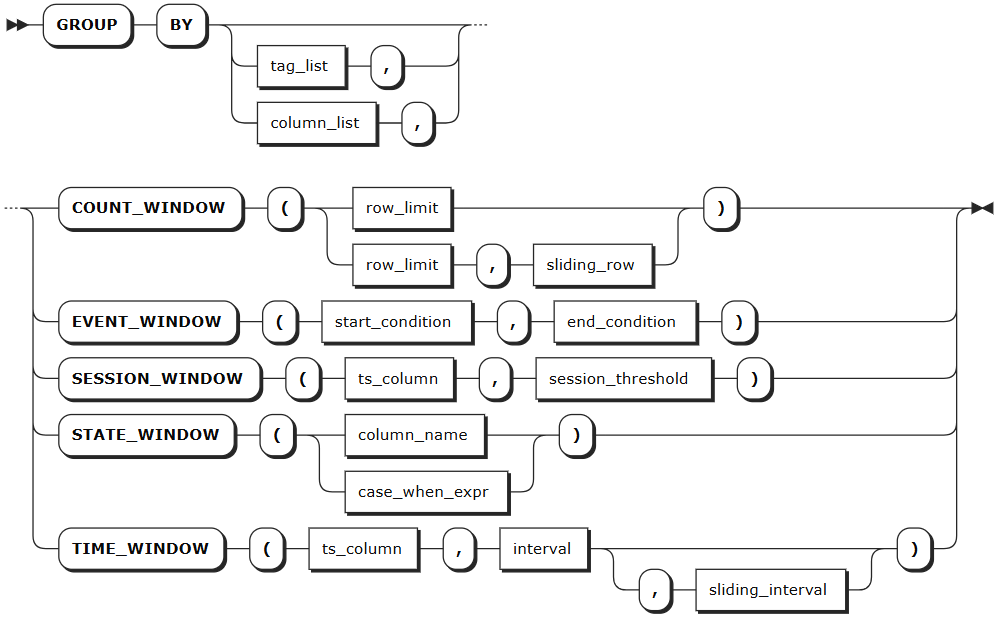
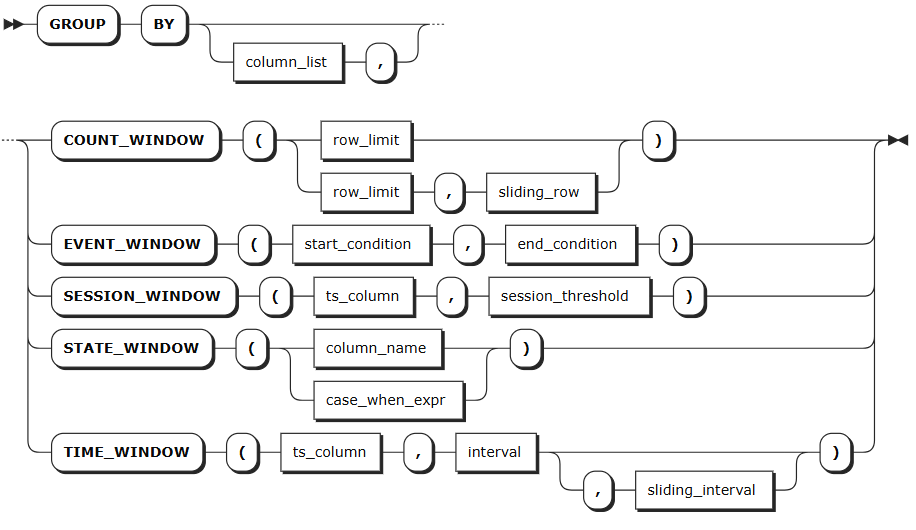
commit-message: add update

Changed region(s): [[0.0, 0.0, 1.0, 0.9962], [0.7031, 0.2113, 0.7336, 0.2415]]

diff --git a/sql-reference/other-sql-statements/stream-sql.md b/sql-reference/other-sql-statements/stream-sql.md
@@ -39,7 +39,7 @@ id: stream-sql
 | `table_name` | 目标表名称。<br> **说明** <br> 目标表的模式必须与 `stream_query` 参数的 `select_list` 参数兼容。 |
 | `stream_option` | 流计算参数。用户可以使用 `ALTER STREAM <stream_name> SET OPTIONS` 语句修改流计算的参数。支持以下参数：<br >- `ENABLE`: 是否启用流计算。支持 `on` 和 `off` 两个取值。`on` 表示启用流计算。`off` 表示未启用流计算。默认为 `on`。 <br >- `MAX_DELAY`：聚合窗口最大持续时间，默认为 `24h`。支持的时间单位包括毫秒（ms）、秒（s）、分（m）、小时（h）、天（d）、周（w）等。 <br >- `SYNC_TIME`：最大允许的乱序数据窗口，默认为 `1m`。<br >- `PROCESS_HISTORY`：是否处理历史数据和断点数据。支持 `on` 和 `off` 两个取值。`on` 表示处理历史数据和断点数据。`off` 表示不处理历史数据和断点数据。默认为 `off`。<br >- `MAX_RETRIES`：流计算发生错误后的重试次数，默认为 `5`。 <br >- `CHECKPOINT_INTERVAL`：流计算的检查点周期，默认为 `10s`。 <br >- `HEARTBEAT_INTERVAL`：流计算的心跳周期，默认为 `2s`。 <br >- `BUFFER_SIZE`：用于流计算聚合计算的缓冲区大小，默认为 `2Gb`。如为普通流计算查询，则不启用。<br > **说明** <br >- 目前，KWDB 只支持在线修改 `ENABLE` 参数。如需修改其它参数，用户需要先停止流计算，然后再修改相关参数。  |
 | `value` | 流计算参数的取值。 |
-| `stream_query` | `SELECT` 普通查询语法的子集。<br> **说明** <br>- `select_list` 参数必须与目标表的模式兼容。<br>- `select_list` 参数中必须包含 `first(ts)` 和 `last(ts)`且作为最开始的两个输出列，用于记录窗口的开启和关闭时间。否则，历史数据、过期数据和断点数据的处理功能可能处于不可用状态。<br>- 支持窗口函数（会话窗口、状态窗口、时间窗口、事件窗口与计数窗口）和 `Timebucket` 函数。其中，窗口函数仅支持 `GROUP BY [<ptag>,]` 和 `group_window_function`，不支持其它分组条件。<br>- 支持使用 `AS` 子句重命名全部输出列，使其符合目标表的模式定义。<br>- 使用 `TIME_WINDOW` 函数创建流计算时，必须使用 `first_row` 和 `last_row` 函数获取聚合窗口的起止时间。<br>- 使用带滑动窗口的 `TIME_WINDOW` 函数创建流计算时，必须使用 `first` 和 `last` 函数获取聚合窗口的起止时间，然后将其记录到目标表中且作为最开始的两个输出列。|
+| `stream_query` | `SELECT` 普通查询语法的子集。<br> **说明** <br>- `select_list` 参数必须与目标表的模式兼容。<br>- `select_list` 参数中必须包含 `first(ts)` 和 `last(ts)`且作为最开始的两个输出列，用于记录窗口的开启和关闭时间。否则，历史数据、过期数据和断点数据的处理功能可能处于不可用状态。<br>- 支持窗口函数（会话窗口、状态窗口、时间窗口、事件窗口与计数窗口）和 `Timebucket` 函数。其中，分组窗口函数必须与 `GROUP BY` 子句搭配使用，且分组列须在窗口函数之前指定。<br>- 支持使用 `AS` 子句重命名全部输出列，使其符合目标表的模式定义。<br>- 使用 `TIME_WINDOW` 函数创建流计算时，必须使用 `first_row` 和 `last_row` 函数获取聚合窗口的起止时间。<br>- 使用带滑动窗口的 `TIME_WINDOW` 函数创建流计算时，必须使用 `first` 和 `last` 函数获取聚合窗口的起止时间，然后将其记录到目标表中且作为最开始的两个输出列。|
 
 ### 语法示例
 

diff --git a/sql-reference/dml/ts-db/ts-select.md b/sql-reference/dml/ts-db/ts-select.md
@@ -194,7 +194,7 @@ KWDB 支持基于特定条件（如时间间隔、数据行数或状态信息等
 
 ::: warning 说明
 
-- 目前，分组窗口查询必须与 `GROUP BY` ⼦句搭配使⽤。
+- 目前，分组窗口查询必须与 `GROUP BY` 子句搭配使用，且分组列需置于窗口函数之前。分组列支持主标签、普通标签和数据列，以及上述列的任意组合。
 - 分组窗口查询目前仅支持单表查询，不支持嵌套查询、关联查询、联合查询。分组条件仅支持数据列或标签列，不支持表达式（如 `a+b`、`abs(a)` 等）。
 
 :::
@@ -259,8 +259,7 @@ KWDB 支持基于特定条件（如时间间隔、数据行数或状态信息等
 
 | 参数 | 说明 |
 | --- | --- |
-| `tag_list` | 可选参数，指定一个或多个标签（包括主标签和普通标签），标签名之间用逗号分隔。|
-| `column_list` | 可选参数，指定一个或多个数据列，列名之间用逗号分隔。 |
+| `column_list` | 可选参数，指定一个或多个分组列，包括主标签、普通标签和数据列，列名之间用逗号分隔。 |
 | `row_limit` | 计数窗口中，指定分组的数据行数。 |
 | `sliding_rows` | 计数窗口中，指定相邻窗口起始点间的差距，以控制窗口的重叠程度，值必须小于或等于 `row_limit`。|
 | `start_condition` | 事件窗口中，指定窗口开始的条件，可以是任意表达式，也可以涉及不同的列。 |
